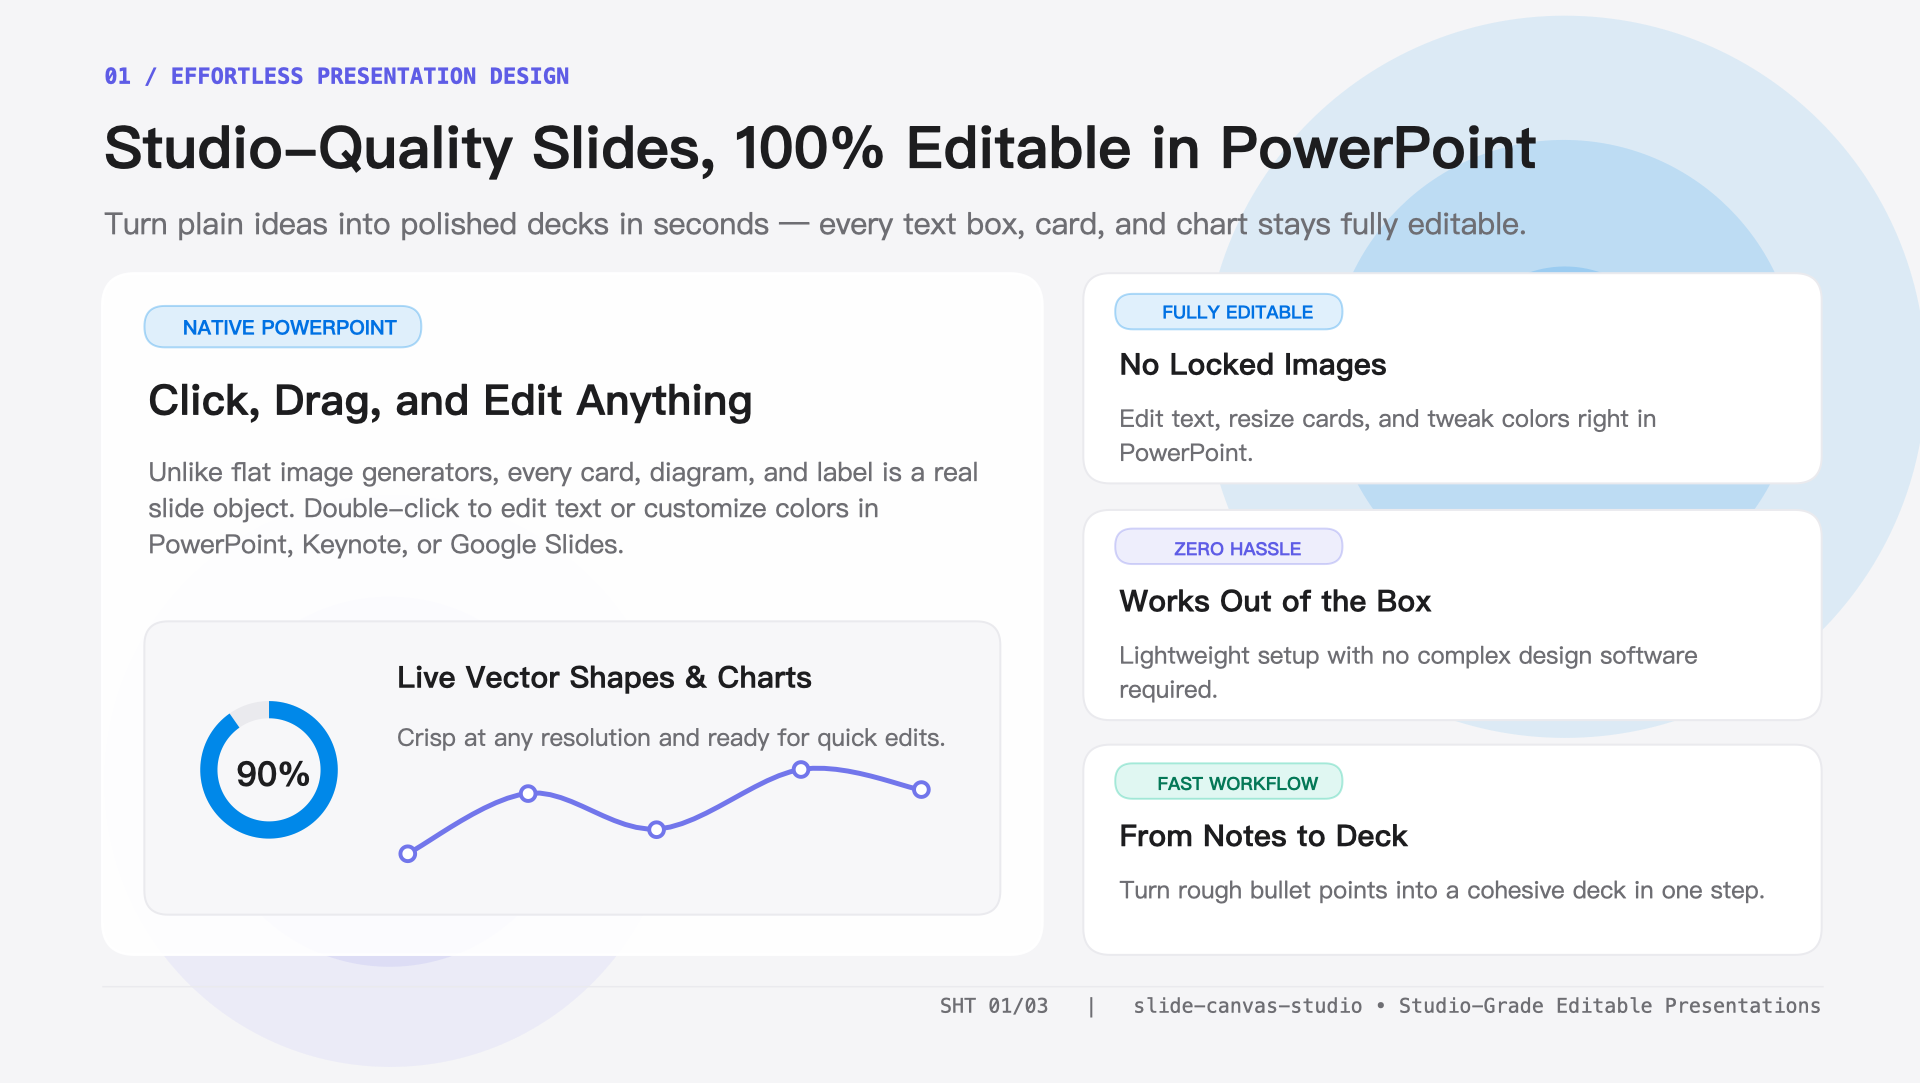
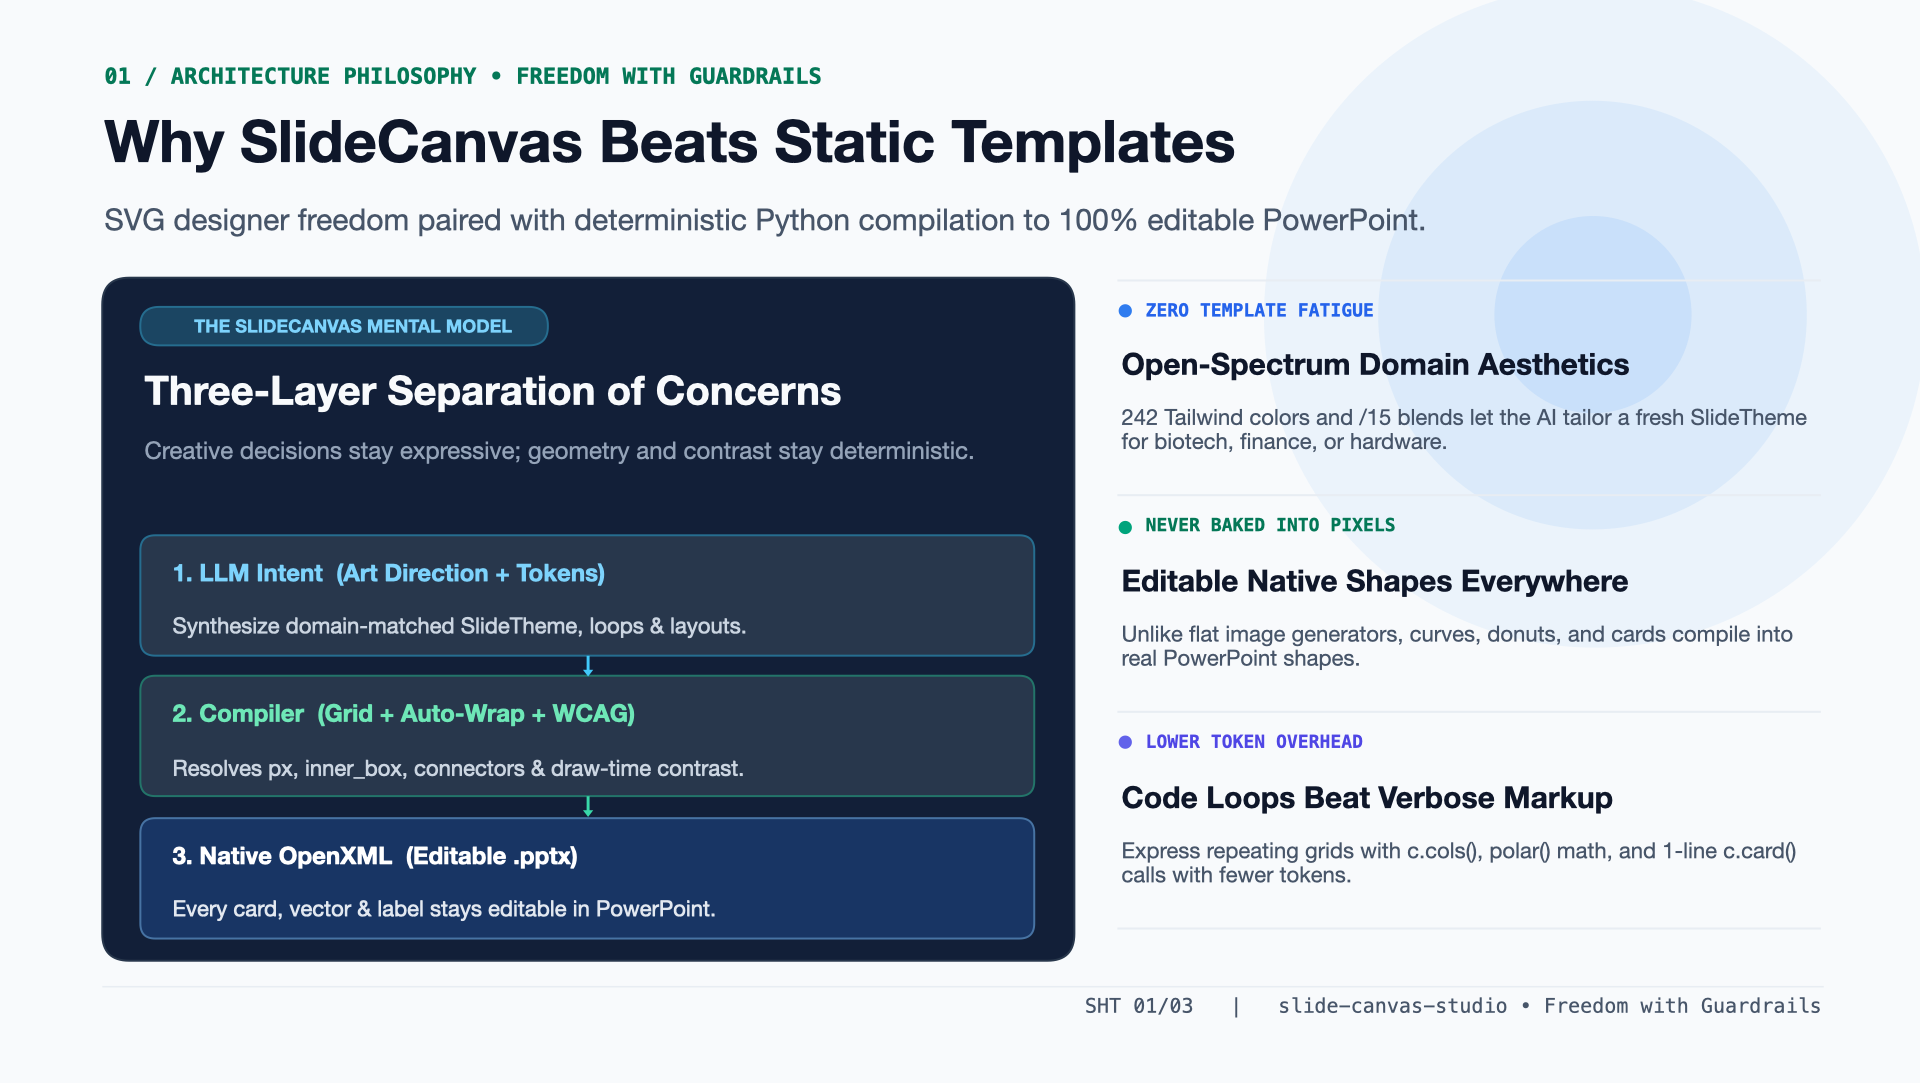
docs(readme): refresh 3 architecture-focused showcase slides with SlideTheme & c.card()

diff --git a/README.md b/README.md
@@ -16,16 +16,16 @@ Zero binary dependencies · CJK-aware typography · WCAG contrast guard · Dual 
 <table>
   <tr>
     <td width="33%" align="center">
-      <img src="assets/slide-1.png" alt="Studio-Quality Slides, 100% Editable in PowerPoint" width="100%" /><br />
-      <sub><b>01 · 100% Editable in PowerPoint</b></sub>
+      <img src="assets/slide-1.png?v=3" alt="Why SlideCanvas Beats Static Templates" width="100%" /><br />
+      <sub><b>01 · Freedom with Guardrails</b></sub>
     </td>
     <td width="33%" align="center">
-      <img src="assets/slide-2.png" alt="Smart Auto-Layout & Readability" width="100%" /><br />
-      <sub><b>02 · Smart Auto-Layout & Readability</b></sub>
+      <img src="assets/slide-2.png?v=3" alt="Deterministic Framing &amp; Draw-Time WCAG Guard" width="100%" /><br />
+      <sub><b>02 · Precision Without Fragility</b></sub>
     </td>
     <td width="33%" align="center">
-      <img src="assets/slide-3.png" alt="5 Curated Designer Styles" width="100%" /><br />
-      <sub><b>03 · 5 Curated Designer Styles</b></sub>
+      <img src="assets/slide-3.png?v=3" alt="Modular Engine &amp; Automated Verification Gate" width="100%" /><br />
+      <sub><b>03 · Built to Scale</b></sub>
     </td>
   </tr>
 </table>
